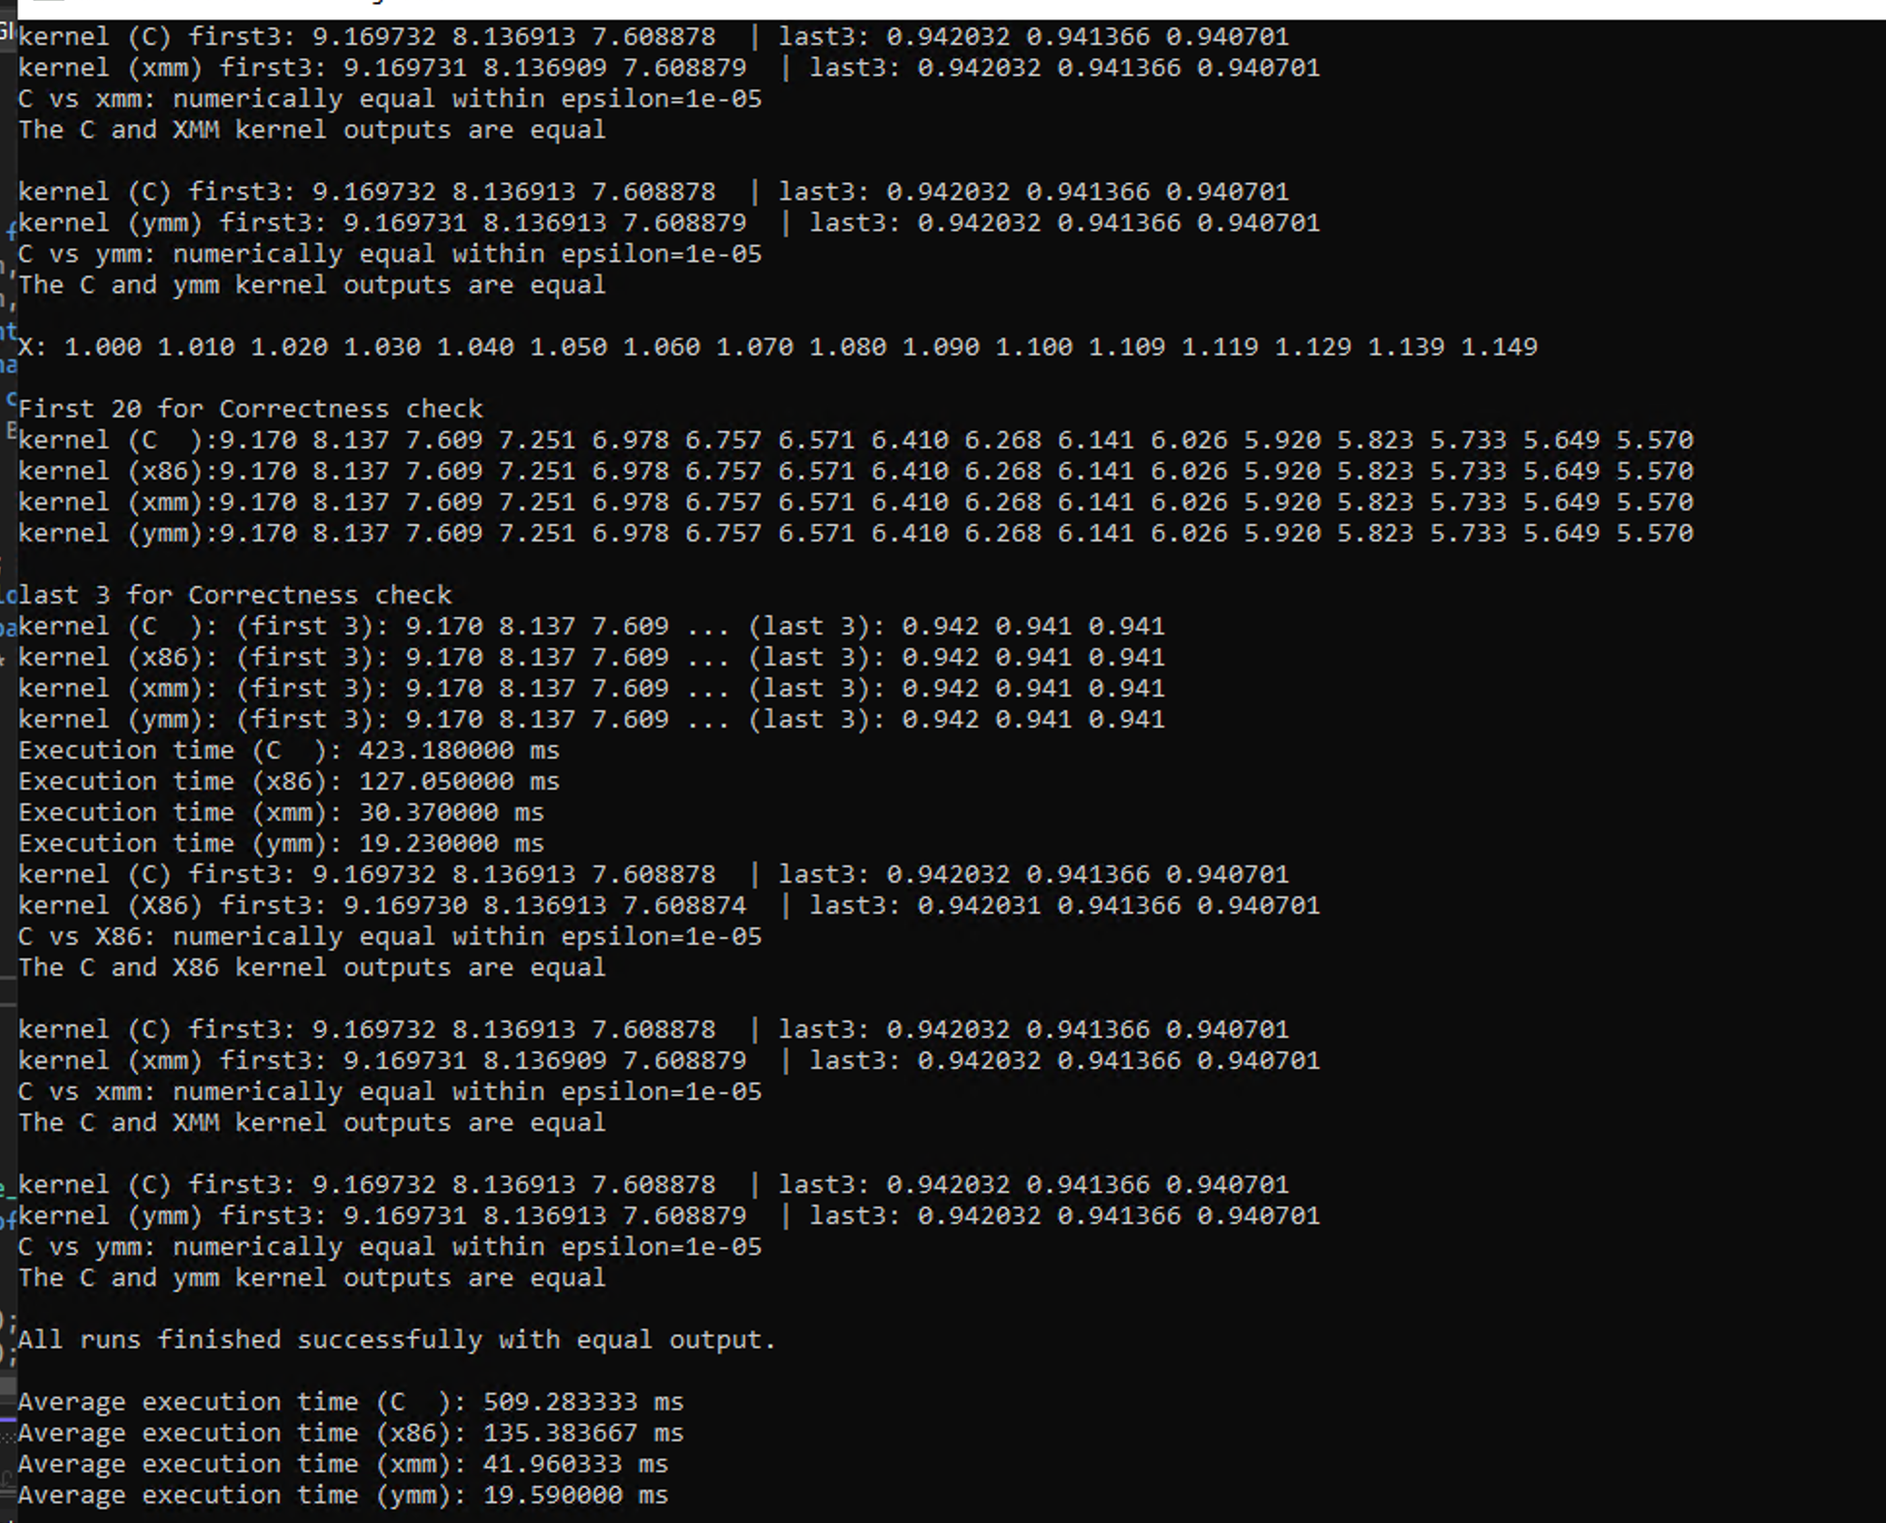
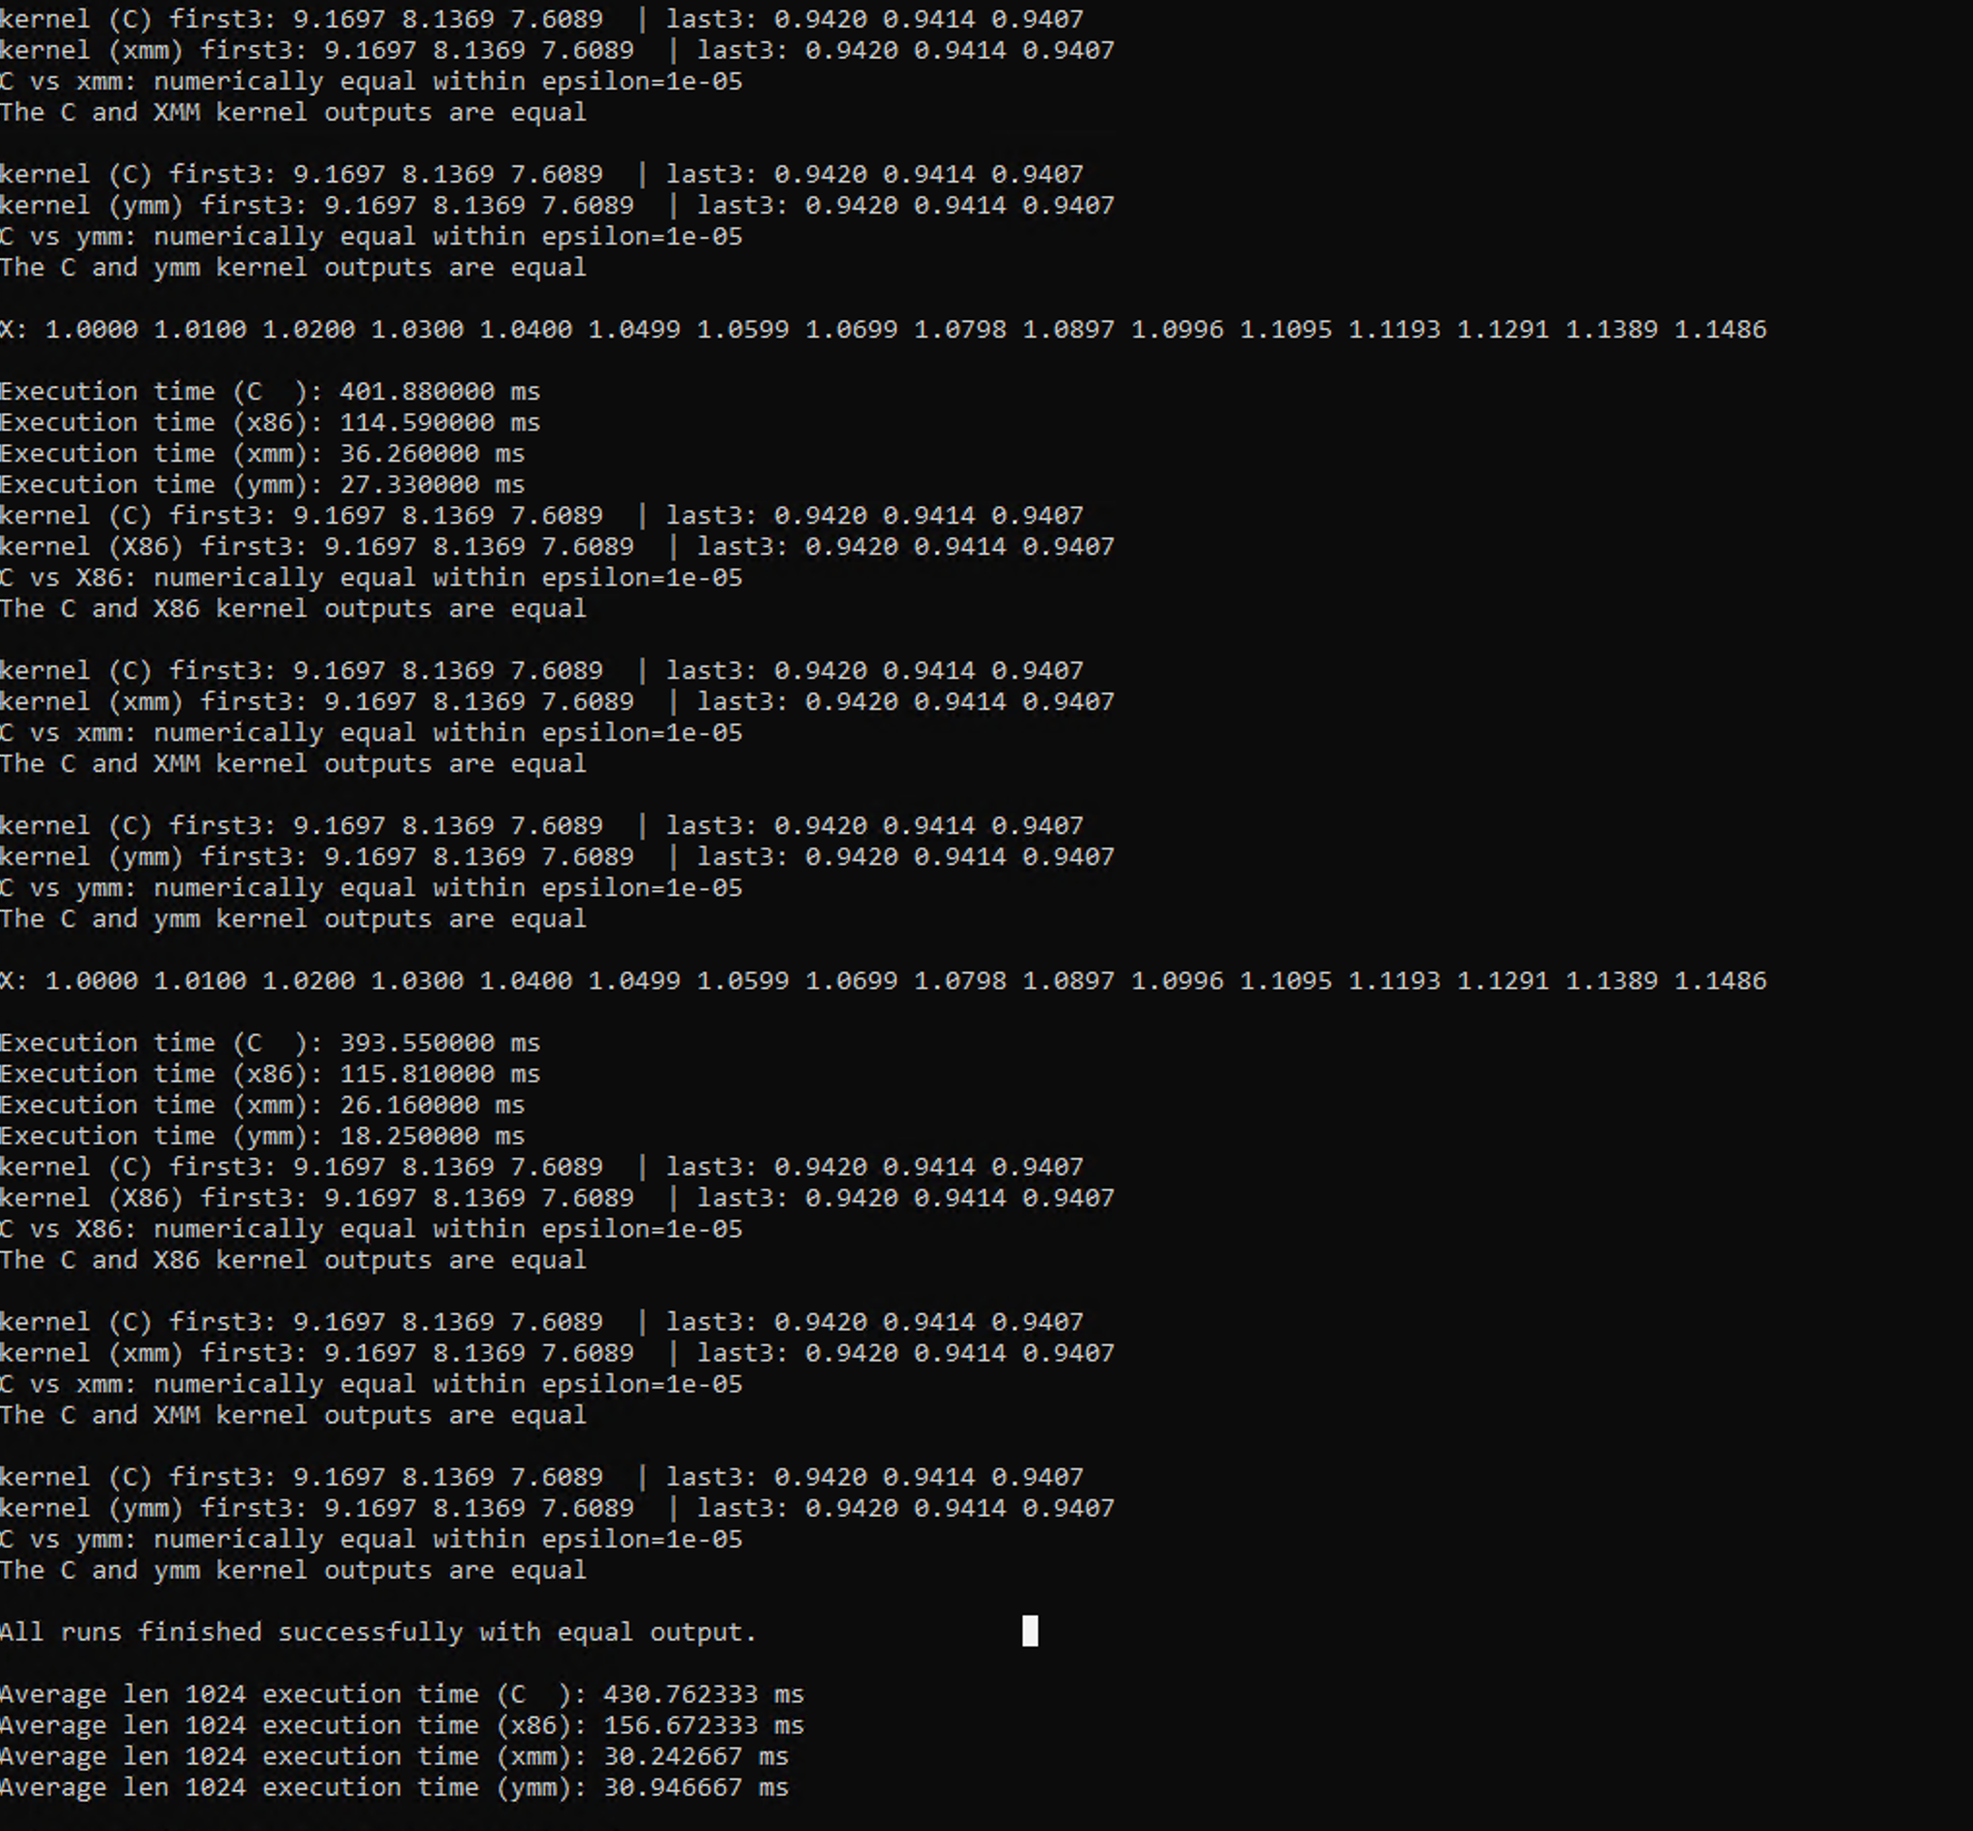
#7 fix output and float points format

Changed region(s): [[0.0, 0.0, 1.0, 1.0], [0.4938, 0.8739, 0.5247, 0.9051]]

diff --git a/README.md b/README.md
@@ -21,8 +21,8 @@ Each kernel is to perform a `matrix vector product`.matrix-vector product `y = A
      ├── README.md
      ├── simd_integration
      │   ├── asmfunc1.asm          (x86)
-     │   ├── asmfunc2.asm          (SIMD XMM)
-     │   ├── asmfunc3.asm          (SIMD YMM)
+     │   ├── asmfunc3.asm          (SIMD XMM)
+     │   ├── asmfunc4.asm          (SIMD YMM)
      │   ├── main.c (main program)
      │   ├── simd_integration.vcxproj
      │   └── simd_integration.vcxproj.filters
@@ -86,12 +86,12 @@ Matrix sizes: n ∈ {1003,2^10,2^13,2^14} RUN in 30 times
 #define RUNS 10
 ```
 
-| n            |      C (ms) |   x86 (ms) |  XMM (ms) |  YMM (ms) | x86 Speedup VS C | XMM Speedup VS C | YMM Speedup VS C |
-| ------------ | ----------: | ---------: | --------: | --------: | ---------------: | ---------------: | ---------------: |
-| 1003         |     521.193 |    166.493 |    28.962 |    18.537 |            3.13× |           18.00× |           28.12× |
-| 2^10 (1024)  |     411.454 |    122.419 |    53.028 |    32.243 |            3.36× |            7.76× |           12.76× |
-| 2^13 (8192)  |  25,186.700 |  7,837.390 | 2,255.319 | 1,971.116 |            3.21× |           11.17× |           12.78× |
-| 2^14 (16384) | 101,722.746 | 31,554.394 | 9,077.505 | 7,961.411 |            3.22× |           11.21× |           12.78× |
+| n            |      C (ms) |   x86 (ms) |   XMM (ms) |  YMM (ms) | x86 Speedup VS C | XMM Speedup VS C | YMM Speedup VS C |
+| ------------ | ----------: | ---------: | ---------: | --------: | ---------------: | ---------------: | ---------------: |
+| 2^10 (1024)  |     430.762 |    156.672 |     30.243 |    30.947 |            2.75× |           14.24× |           13.92× |
+| 2^13 (8192)  |  25,124.121 |  7,881.562 |  2,400.416 | 2,114.746 |            3.19× |           10.47× |           11.88× |
+| 2^14 (16384) | 100,416.107 | 31,844.125 | 10,230.686 | 8,981.545 |            3.15× |            9.82× |           11.18× |
+| 1003         |     450.037 |    133.948 |     36.630 |    26.653 |            3.36× |           12.29× |           16.88× |
 
 - 2^10
 
@@ -260,34 +260,34 @@ loop_inner:
 ### Correctness check
 
 ```C
-		printf("First 20 for Correctness check");
-		printf("kernel (C  ):");
-		print_array(16, Y_c);
-		printf("kernel (x86):");
-		print_array(16, Y_x86_64);
-		printf("kernel (xmm):");
-		print_array(16, y_xmm_v2);
-		printf("kernel (ymm):");
-		print_array(16, Y_ymm);
-		//printf("kernel (xmm_v2):");
-		//print_array(16, y_xmm_v2);
-		printf("last 3 for Correctness check");
-		print_first_last("kernel (C  ):", Y_c, n);
-		print_first_last("kernel (x86):", Y_x86_64, n);
-		print_first_last("kernel (xmm):", y_xmm_v2, n);
-		print_first_last("kernel (ymm)", Y_ymm, n);
 
 
-void print_first_last(const char* name, float* y, int n) {
-	printf("%s (first 20): ", name);
-	for (int i = 0; i < 3 && i < n; ++i)
-		printf("%.3f ", y[i]);
+boolean compare_results(const char* name_a,  const float* A,
+	const char* name_b, const float* B, int n) {
+	int tail_start = n > 3 ? n - 3 : 0;
 
-	printf("... (last 3): ");
-	for (int i = n - 3; i < n; ++i)
-		if (i >= 0)
-			printf("%.3f ", y[i]);
+	printf("kernel (%s) first3: ", name_a);
+	for (int i = 0; i < 3 && i < n; ++i) printf("%.6f ", A[i]);
+	printf(" | last3: ");
+	for (int i = tail_start; i < n; ++i) printf("%.6f ", A[i]);
 	printf("\n");
+
+	printf("kernel (%s) first3: ", name_b);
+	for (int i = 0; i < 3 && i < n; ++i) printf("%.6f ", B[i]);
+	printf(" | last3: ");
+	for (int i = tail_start; i < n; ++i) printf("%.6f ", B[i]);
+	printf("\n");
+
+	for (int i = 0; i < n; ++i) {
+		if (!nearly_equal(A[i], B[i], EPSILON)) {
+			printf("Mismatch at %d: %s=%.8f, %s=%.8f (eps=%g)\n",
+				i, name_a, A[i], name_b, B[i], EPSILON);
+			return false;
+		}
+	}
+	printf("%s vs %s: numerically equal within epsilon=%g\n",
+		name_a, name_b, EPSILON);
+	return true;
 }
 
 ```
@@ -339,34 +339,6 @@ static inline boolean nearly_equal(float a, float b, float eps) {
 	float diff = fabsf(a - b);
 	float scale = fmaxf(1.0f, fmaxf(fabsf(a), fabsf(b)));
 	return diff <= eps * scale;
-}
-
-boolean compare_results(const char* name_a,  const float* A,
-	const char* name_b, const float* B, int n) {
-	int tail_start = n > 3 ? n - 3 : 0;
-
-	printf("kernel (%s) first3: ", name_a);
-	for (int i = 0; i < 3 && i < n; ++i) printf("%.6f ", A[i]);
-	printf(" | last3: ");
-	for (int i = tail_start; i < n; ++i) printf("%.6f ", A[i]);
-	printf("\n");
-
-	printf("kernel (%s) first3: ", name_b);
-	for (int i = 0; i < 3 && i < n; ++i) printf("%.6f ", B[i]);
-	printf(" | last3: ");
-	for (int i = tail_start; i < n; ++i) printf("%.6f ", B[i]);
-	printf("\n");
-
-	for (int i = 0; i < n; ++i) {
-		if (!nearly_equal(A[i], B[i], EPSILON)) {
-			printf("Mismatch at %d: %s=%.8f, %s=%.8f (eps=%g)\n",
-				i, name_a, A[i], name_b, B[i], EPSILON);
-			return false;
-		}
-	}
-	printf("%s vs %s: numerically equal within epsilon=%g\n",
-		name_a, name_b, EPSILON);
-	return true;
 }
 ```
 
